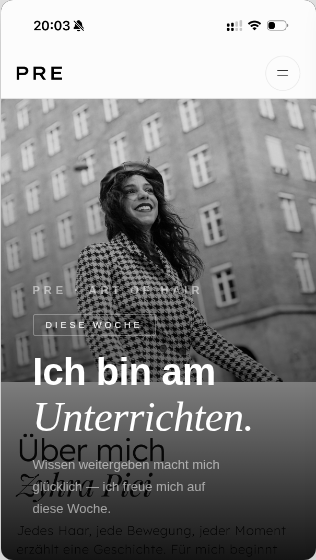
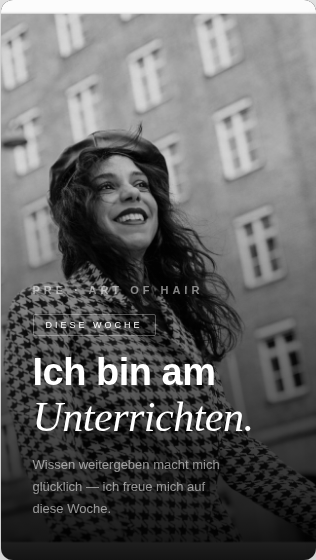
Add cleaned product/portrait photos and final story exports
Cropped Davines bottle (background removed), cropped Zyhra portraits
without browser UI. All 5 story PNGs updated with real imagery.

https://claude.ai/code/session_01BaC8m9wAmbtKccXQSCmnYc

diff --git a/weekly-stories.html b/weekly-stories.html
@@ -141,7 +141,7 @@
     .s2 .photo {
       position: absolute;
       inset: 0;
-      background: url('zyhra-2.png') center top / cover no-repeat;
+      background: url('zyhra-2-clean.png') center top / cover no-repeat;
       filter: grayscale(100%);
     }
     .s2 .overlay {
@@ -313,24 +313,48 @@
 
     /* ─────────────────────────────────────────
        STORY 4 — Produkt der Woche
-       Dark, product focus, editorial
+       Real product photo, dark editorial
     ───────────────────────────────────────── */
     .s4 {
-      background: #0e0e0e;
+      background: #0a0a0a;
       display: flex;
       flex-direction: column;
-      justify-content: space-between;
-      padding: 44px 36px 44px;
+      justify-content: flex-end;
     }
-    .s4 .top {
+    .s4 .product-photo {
+      position: absolute;
+      top: 0; left: 0; right: 0;
+      height: 62%;
+      background: url('davines-bottle-nobg.png') center 35% / 64% auto no-repeat;
+      background-color: #0a0a0a;
+    }
+    .s4 .product-glow {
+      position: absolute;
+      top: 6%; left: 50%;
+      transform: translateX(-50%);
+      width: 260px; height: 260px;
+      border-radius: 50%;
+      background: radial-gradient(circle, rgba(200,160,60,0.22) 0%, transparent 70%);
+      pointer-events: none;
+    }
+    .s4 .fade {
+      position: absolute;
+      bottom: 0; left: 0; right: 0;
+      height: 55%;
+      background: linear-gradient(to bottom, transparent, #0a0a0a 45%);
+    }
+    .s4 .top-bar {
+      position: absolute;
+      top: 36px; left: 32px; right: 32px;
       display: flex;
       justify-content: space-between;
-      align-items: flex-start;
+      align-items: center;
+      z-index: 2;
     }
     .s4 .logo {
       font-family: 'Barlow', sans-serif;
       font-weight: 700;
-      font-size: 22px;
+      font-size: 20px;
       letter-spacing: 3px;
       color: #fff;
     }
@@ -338,71 +362,54 @@
       font-size: 9px;
       letter-spacing: 3px;
       text-transform: uppercase;
-      color: #555;
+      color: #666;
       text-align: right;
-      line-height: 1.6;
+      line-height: 1.7;
     }
-    .s4 .product-area {
-      flex: 1;
-      display: flex;
-      flex-direction: column;
-      align-items: flex-start;
-      justify-content: center;
+    .s4 .content {
+      position: relative;
+      z-index: 2;
+      padding: 0 32px 40px;
     }
-    .s4 .product-frame {
-      width: 100%;
-      height: 160px;
-      border: 1px solid #222;
-      display: flex;
-      flex-direction: column;
-      align-items: center;
-      justify-content: center;
-      margin-bottom: 28px;
-      gap: 8px;
-    }
-    .s4 .product-frame .prod-emoji {
-      font-size: 48px;
-    }
-    .s4 .product-frame .prod-label {
+    .s4 .eyebrow {
       font-size: 9px;
       letter-spacing: 4px;
       text-transform: uppercase;
-      color: #444;
-    }
-    .s4 .product-frame .prod-name {
-      font-family: 'Cormorant Garamond', serif;
-      font-style: italic;
-      font-size: 26px;
-      font-weight: 400;
-      color: #fff;
+      color: #666;
+      margin-bottom: 12px;
     }
     .s4 .headline {
       font-family: 'Barlow', sans-serif;
-      font-size: 38px;
+      font-size: 40px;
       font-weight: 700;
       color: #fff;
-      line-height: 1.05;
+      line-height: 1.0;
       letter-spacing: -0.5px;
     }
     .s4 .headline em {
       font-family: 'Cormorant Garamond', serif;
       font-style: italic;
       font-weight: 400;
-      font-size: 42px;
+      font-size: 44px;
       color: #fff;
       display: block;
     }
+    .s4 .prod-name {
+      margin-top: 16px;
+      font-size: 11px;
+      letter-spacing: 2px;
+      color: #888;
+      text-transform: uppercase;
+      line-height: 1.6;
+    }
+    .s4 .prod-name span {
+      color: #bfa060;
+    }
     .s4 .body {
-      margin-top: 14px;
+      margin-top: 10px;
       font-size: 12px;
       color: #555;
       line-height: 1.8;
-    }
-    .s4 .url {
-      font-size: 10px;
-      letter-spacing: 2px;
-      color: #333;
-      text-transform: uppercase;
     }
 
     /* ─────────────────────────────────────────
@@ -418,7 +425,7 @@
     .s5 .photo {
       position: absolute;
       inset: 0;
-      background: url('zyhra-1.png') center 20% / cover no-repeat;
+      background: url('zyhra-5-clean.png') center 15% / cover no-repeat;
       filter: grayscale(100%);
     }
     .s5 .overlay {
@@ -581,26 +588,27 @@
     <div class="story-wrap">
       <div class="story-num">04 — Produkt</div>
       <div class="story s4">
-        <div class="top">
+        <div class="product-photo"></div>
+        <div class="product-glow"></div>
+        <div class="fade"></div>
+        <div class="top-bar">
           <div class="logo">PRE</div>
           <div class="tag">Produkt<br>der Woche</div>
         </div>
-        <div class="product-area">
-          <div class="product-frame">
-            <div class="prod-emoji">🫙</div>
-            <div class="prod-label">Darwinis</div>
-            <div class="prod-name">Medium Hold</div>
-          </div>
+        <div class="content">
+          <div class="eyebrow">Mein Favorit</div>
           <div class="headline">
             Das Produkt,
             <em>das ich liebe.</em>
           </div>
+          <div class="prod-name">
+            <span>Davines</span> · This is a Medium Hold<br>Modeling Gel
+          </div>
           <div class="body">
-            Perfekt für Locken und Wet Look —<br>
-            hält ohne zu kleben. Mein Favorit.
+            Perfekt für Locken &amp; Wet Look —<br>
+            hält, ohne zu kleben.
           </div>
         </div>
-        <div class="url">preartofhair.com</div>
       </div>
     </div>
 
